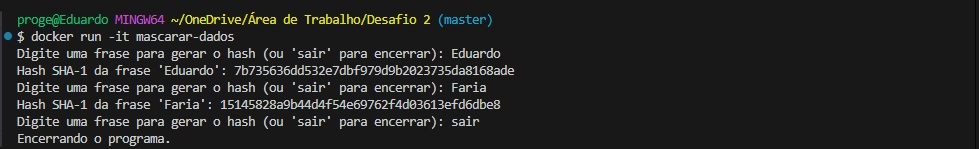
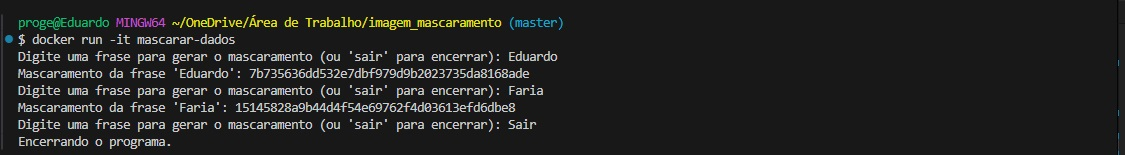
Subindo README desafio

diff --git a/Sprint 4/Desafio/README.md b/Sprint 4/Desafio/README.md
@@ -1,34 +1,73 @@
-# Instruções
+# Objetivo
 
-Neste arquivo você apresentará suas entregas referentes ao desafio. Utilize o diretório "Desafio" para organizar seus artefatos e este README.md para fazer referência aos arquivos de código-fonte e demais entregáveis solicitados.
+O objetivo da Sprint 4, era a criação de 2 ambientes independentes utilizando `Docker`, que executasse um script `Carguru.py` e um Script de `Máscaramento`. Para o Script de `Máscaramento`, era importante enviar algumas palavras para o mascaramento, e o código foi Codado a partir das seguintes instruções abaixo.
+ 
+ - Receber uma String via Input.
+ - Gerar o Hash da String por meio do algoritmo SHA-1.
+ - Imprimir o Hash em tela, utilizando o método Hexdigest.
+ - Voltar a receber uma String.
 
-Esperamos que haja, minimamente:
-
-- Passo a passo para obter o resultado entregue do desafio.
-- Trechos de códigos e suas explicações.
-- Relacionamento com a pasta de evidências (imagens).
-
+Nesta Sprint uma parte do Objetivo era responder a seguinte pergunta: 
+#### É possível reutilizar Containers ?
 
 # Etapas
 
+1. Nesta primeira etapa o processo foi construir um arquivo `Dockerfile`, para gerar a imagem que executasse o Script `Carguru.py`. Dentro do arquivo `Dockerfile`, foi utilizado comandos `FROM` que define a imagem base e utilizado `Python 3` uma versão oficial disponível no `Docker Hub`. Após esse processo foi utilizado o comando `WORKDIR`, ele define o diretório aonde todos os comandos do container serão executados, e `App` foi o diretório Absuluto usado. Proximo comando utilizado foi `COPY`, ele copia todos os arquivos e diretórios onde o `Docker` está sendo executado para o sistema de arquivos do container onde será gerado a imagem. Por último o comando `CMD` foi utilizado, ele especifica o comando que será executado quando o container foi iniciado, dentro do `CMD` foi especificado o interpretador e o caminho aonde o Script estava localizado.
 
-1. ... [Etapa I](etapa-1)
+![Dockerfile do Script Carguru](../Evidencias/Dockerfile%20Carguru.jpg)
 
-    Nessa etapa pode-se perceber com esse código:
-    ```
-    Esta é uma linha de código
-    ```
-    Obtive esse retorno
-    ![Evidência](../Evidencias/sample.webp)
+2. Nesta segunda etapa, o objetivo foi buildar a imagem, baseado no arquivo `Dockerfile` que foi gerado na primeira etapa. Foi utilizado o comando `Docker build`, para criar a imagem. Foi utilizado também o comando `-t`, ele é usado para nomear a imagem, foi nomeado `Carguru_desafio`. Por fim utilizado `.` que indica que o diretório atual será usado para construção da imagem.
 
-2. ... [Etapa II](etapa-2)
+![Buildando a imagem Carguru_desafio](../Evidencias/Buildando%20Carguru_desafio.jpg)
 
-    Já com esse código, o objetivo é ...
+3. Na terceira etapa, a imagem já está criada, o objetivo agora era rodar esse ambiente. Para isso foi utilizado o comando `Docker run`, ele cria um container a partir da imagem e executa. Foi utilizado `-it`, para permitir acessar o container no modo interativo, e no final utilizado o nome da imagem que deveria rodar `Carguru_desafio`.
 
-    ```
-    Esta é uma outra linha de código
-    ```
+![Rodando a imagem Carguru_desafio](../Evidencias/Rodando%20a%20imagem%20Carguru_desafio.jpg)
     
+4. Finalizado essas três etapas, o objetivo nessa quarta etapa era responder a seguinte pergunta: 
+### É possível reutilizar Containers ?
 
+#### Sim, é possível.
 
+Utilizamos o comando `Docker Restart` para inicializar um container parado. 
 
+Na imagem abaixo, podemos perceber um container que contêm a imagem `carguru_desafio` foi finalizado a `22 minutos` atrás, e continha `9 Logs`.
+
+![Logs Antes do comando Start](../Evidencias/Reutilizando%20container%20Docker%20PS%20e%20Logs.jpg)
+
+Quando utilizamos o comando `Docker Restart` ele reinicia o container. Na imagem abaixo percebemos que ele reinicia o container utilizando o `CONTAINER ID`. E quando olhamos para o `STATUS`, nos mostra que o container foi finalizado a `21 segundos` atrás.
+
+![Utilizando o Restart](../Evidencias/Utilizando%20Restart.jpg)
+
+Agora quando utilizado o comando `Docker Logs` ele vai conter mais um log, mostrando assim que o container reinicializou e executou a imagem. 
+
+![Confimação de Logs](../Evidencias/Utilizando%20Docker%20logs.jpg)
+
+5. Respondido a pergunta, partimos para a imagem de mascarar dados que deveria ser criado. Foi utilizado a mesma lógica da imagem `Carguru_desafio`. Houve mudança no comando `WORKDIR`, esse comando define o diretório aonde todos os comandos do container será executados, e o nome do diretório foi nomeado como `Mascara`. Também houve mudança no comando `CMD`, ele utiliza o intepretador `Python`, porém agora ele busca o `script_mascara.py` para ser executado.
+
+Comandos Utilizados nesta etapa: 
+
+ - Criação do arquivo `Dockerfile`.
+ - `FROM`
+ - `WORKDIR`
+ - `COPY`
+ - `CMD`
+
+![Criação do Dockerfile](../Evidencias/Dockerfile%20Mascarar-dados.jpg)
+
+6. Para buildar a imagem `mascarar-dados`, e ela executar o script. Foi Necessário criar o Script, foi criado o `script_mascara.py` baseado nas seguintes instruções: 
+
+  - Receber uma String via Input.
+  - Gerar o Hash da String por meio do algoritmo SHA-1.
+  - Imprimir o Hash em tela, utilizando o método Hexdigest.
+  - Voltar a receber uma String.
+
+  ![Criação do script_mascara.py](../Evidencias/Script%20Mascarar-dados.jpg)
+
+7. Nesta etapa, o processo foi buildar a imagem, baseado no arquivo `Dockerfile`. Foi utilizado a mesma lógica da `Segunda etapa`, utilizamos o comando `Docker build` para criar a imagem, também foi utilizado o comando `-t` para nomear a imagem, foi nomeado `mascarar-dados`. Por fim utilizado `.` que indica que o diretório atual será usado para construção da imagem.
+
+![Buildando a imagem Mascarar-dados](../Evidencias/Buildando%20Mascarar-dados.jpg)
+
+8. Nesta útima etapa, o script ja foi criado, a imagem já está criado. Objetivo agora é rodar esse ambiente, para isso foi utilizado a mesma lógica da `Terceira etapa`. Utilizamos o comando `Docker run`, ele cria um container a partir da imagem e executa. Foi utilizado `-it`, para permitir acessar o container no modo interativo, e no final utilizado o nome da imagem que deveria rodar `mascarar-dados`. O container vai executar a imagem e por estar no modo interativo, conseguimos interagir com o código, e conseguimos enviar qualquer mensagem para o código mascarar. Foi enviado a palavra `Eduardo` e `Faria` e depois `Sair`, para sair do Programa. Após sair do programa ele encerra o container.
+
+![Rodando Mascarar-dados](../Evidencias/Rodando%20Mascarar-dados.jpg)
